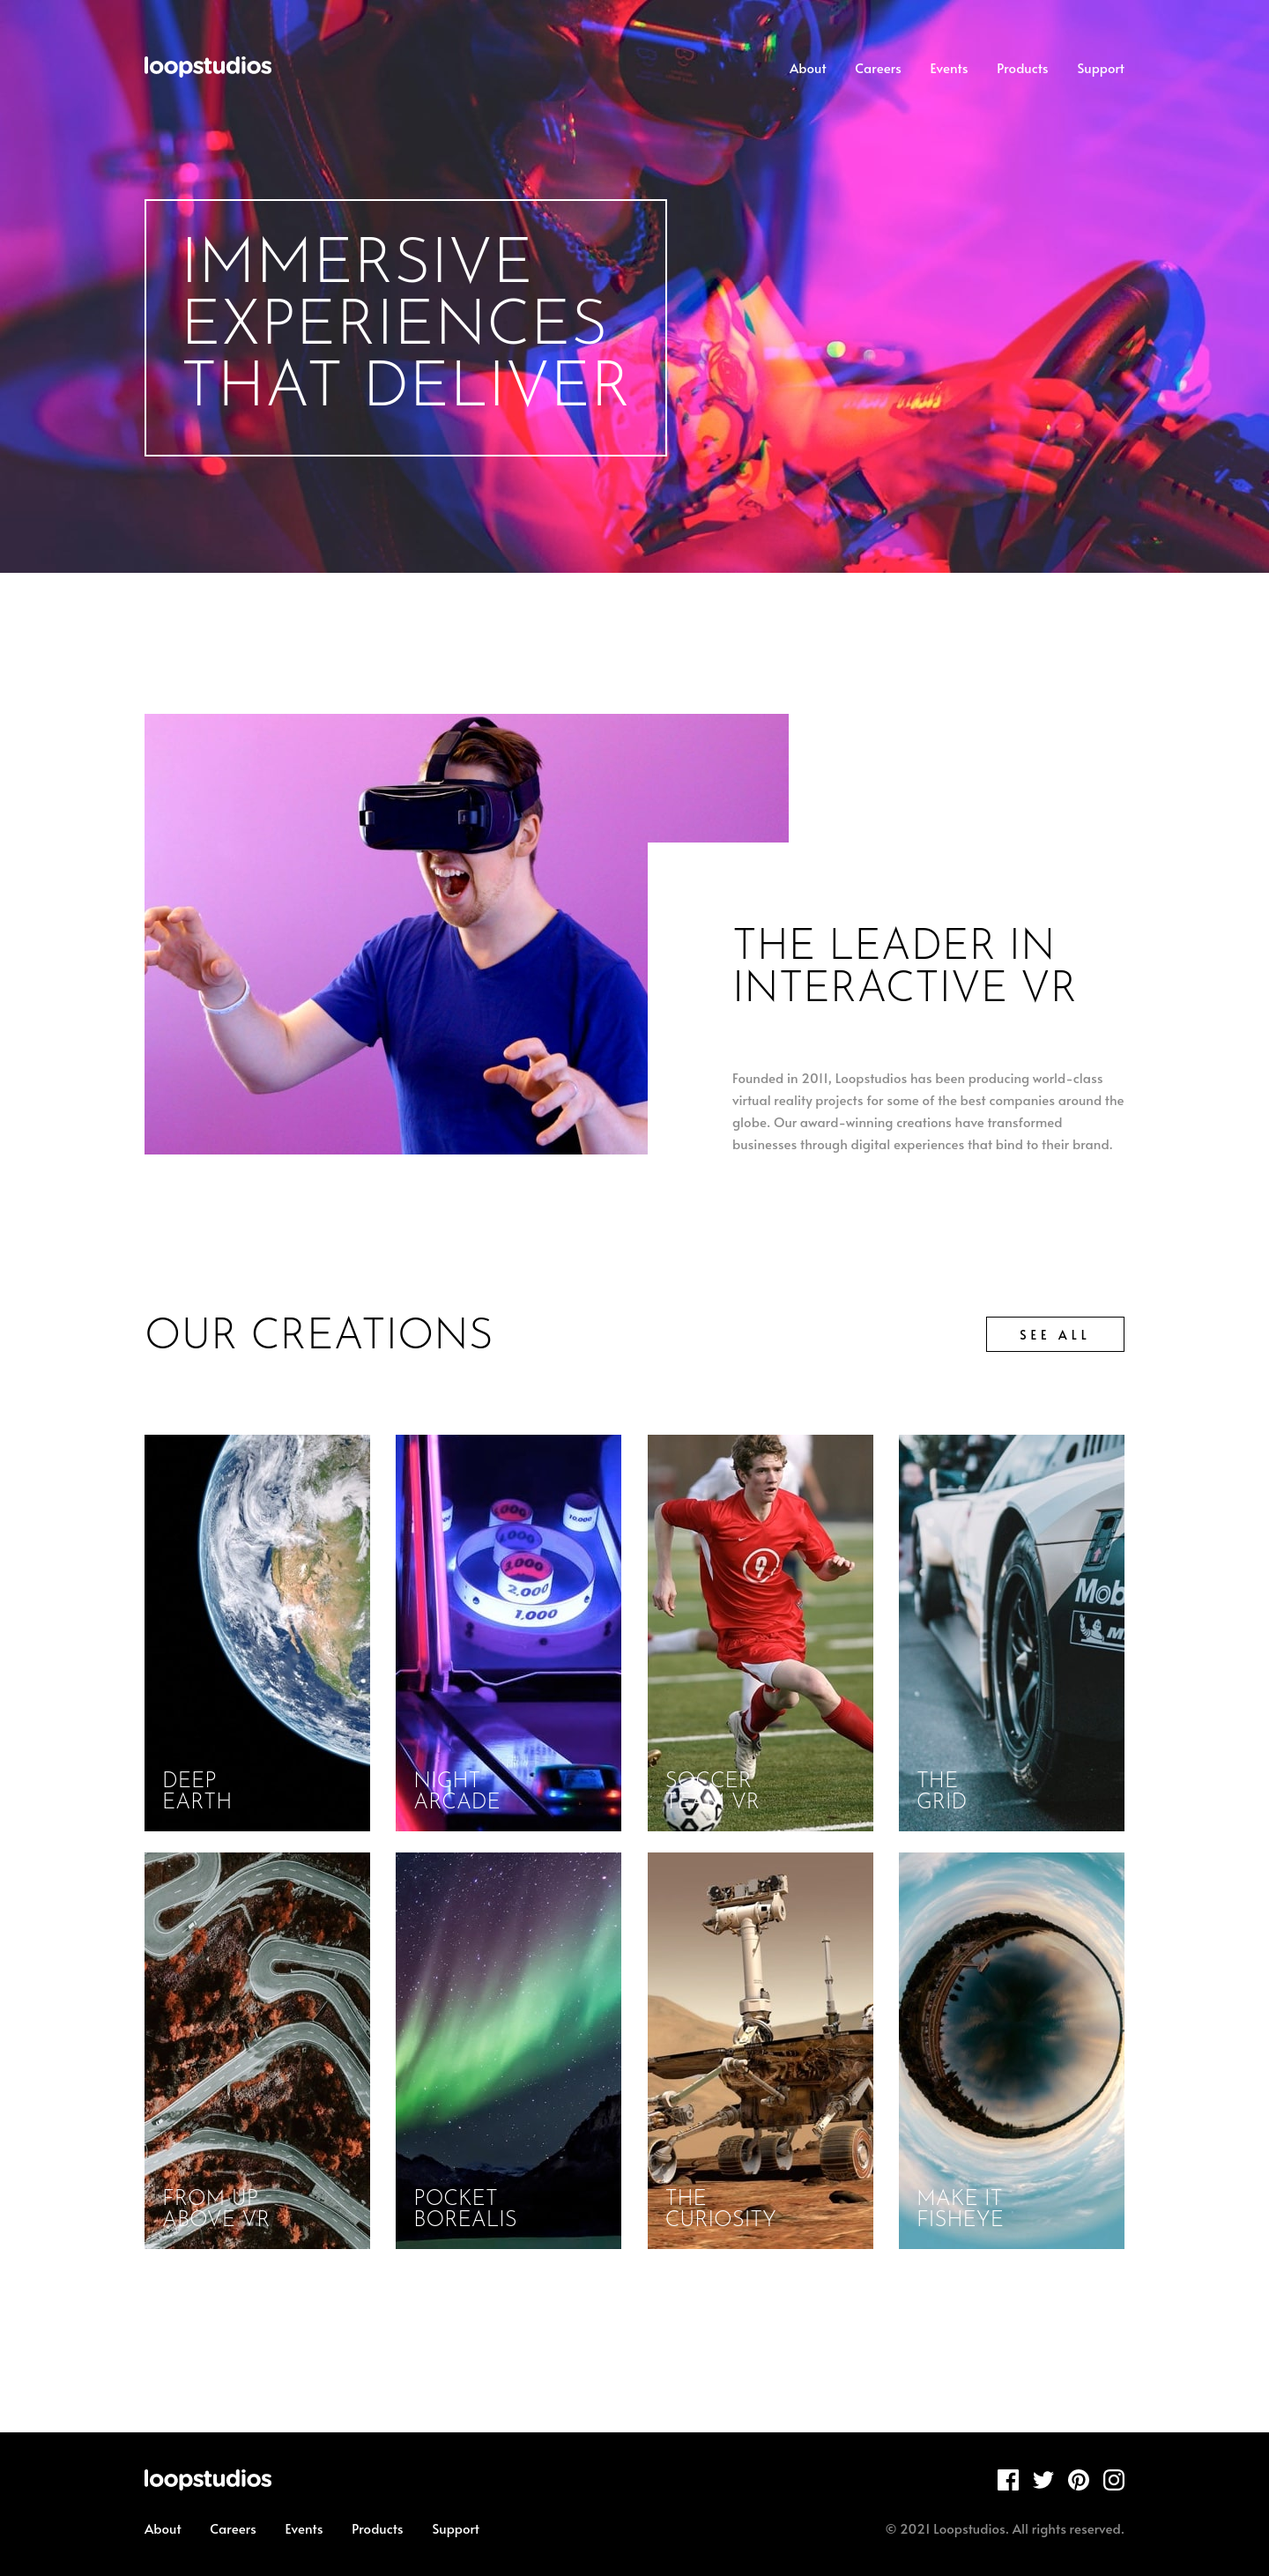
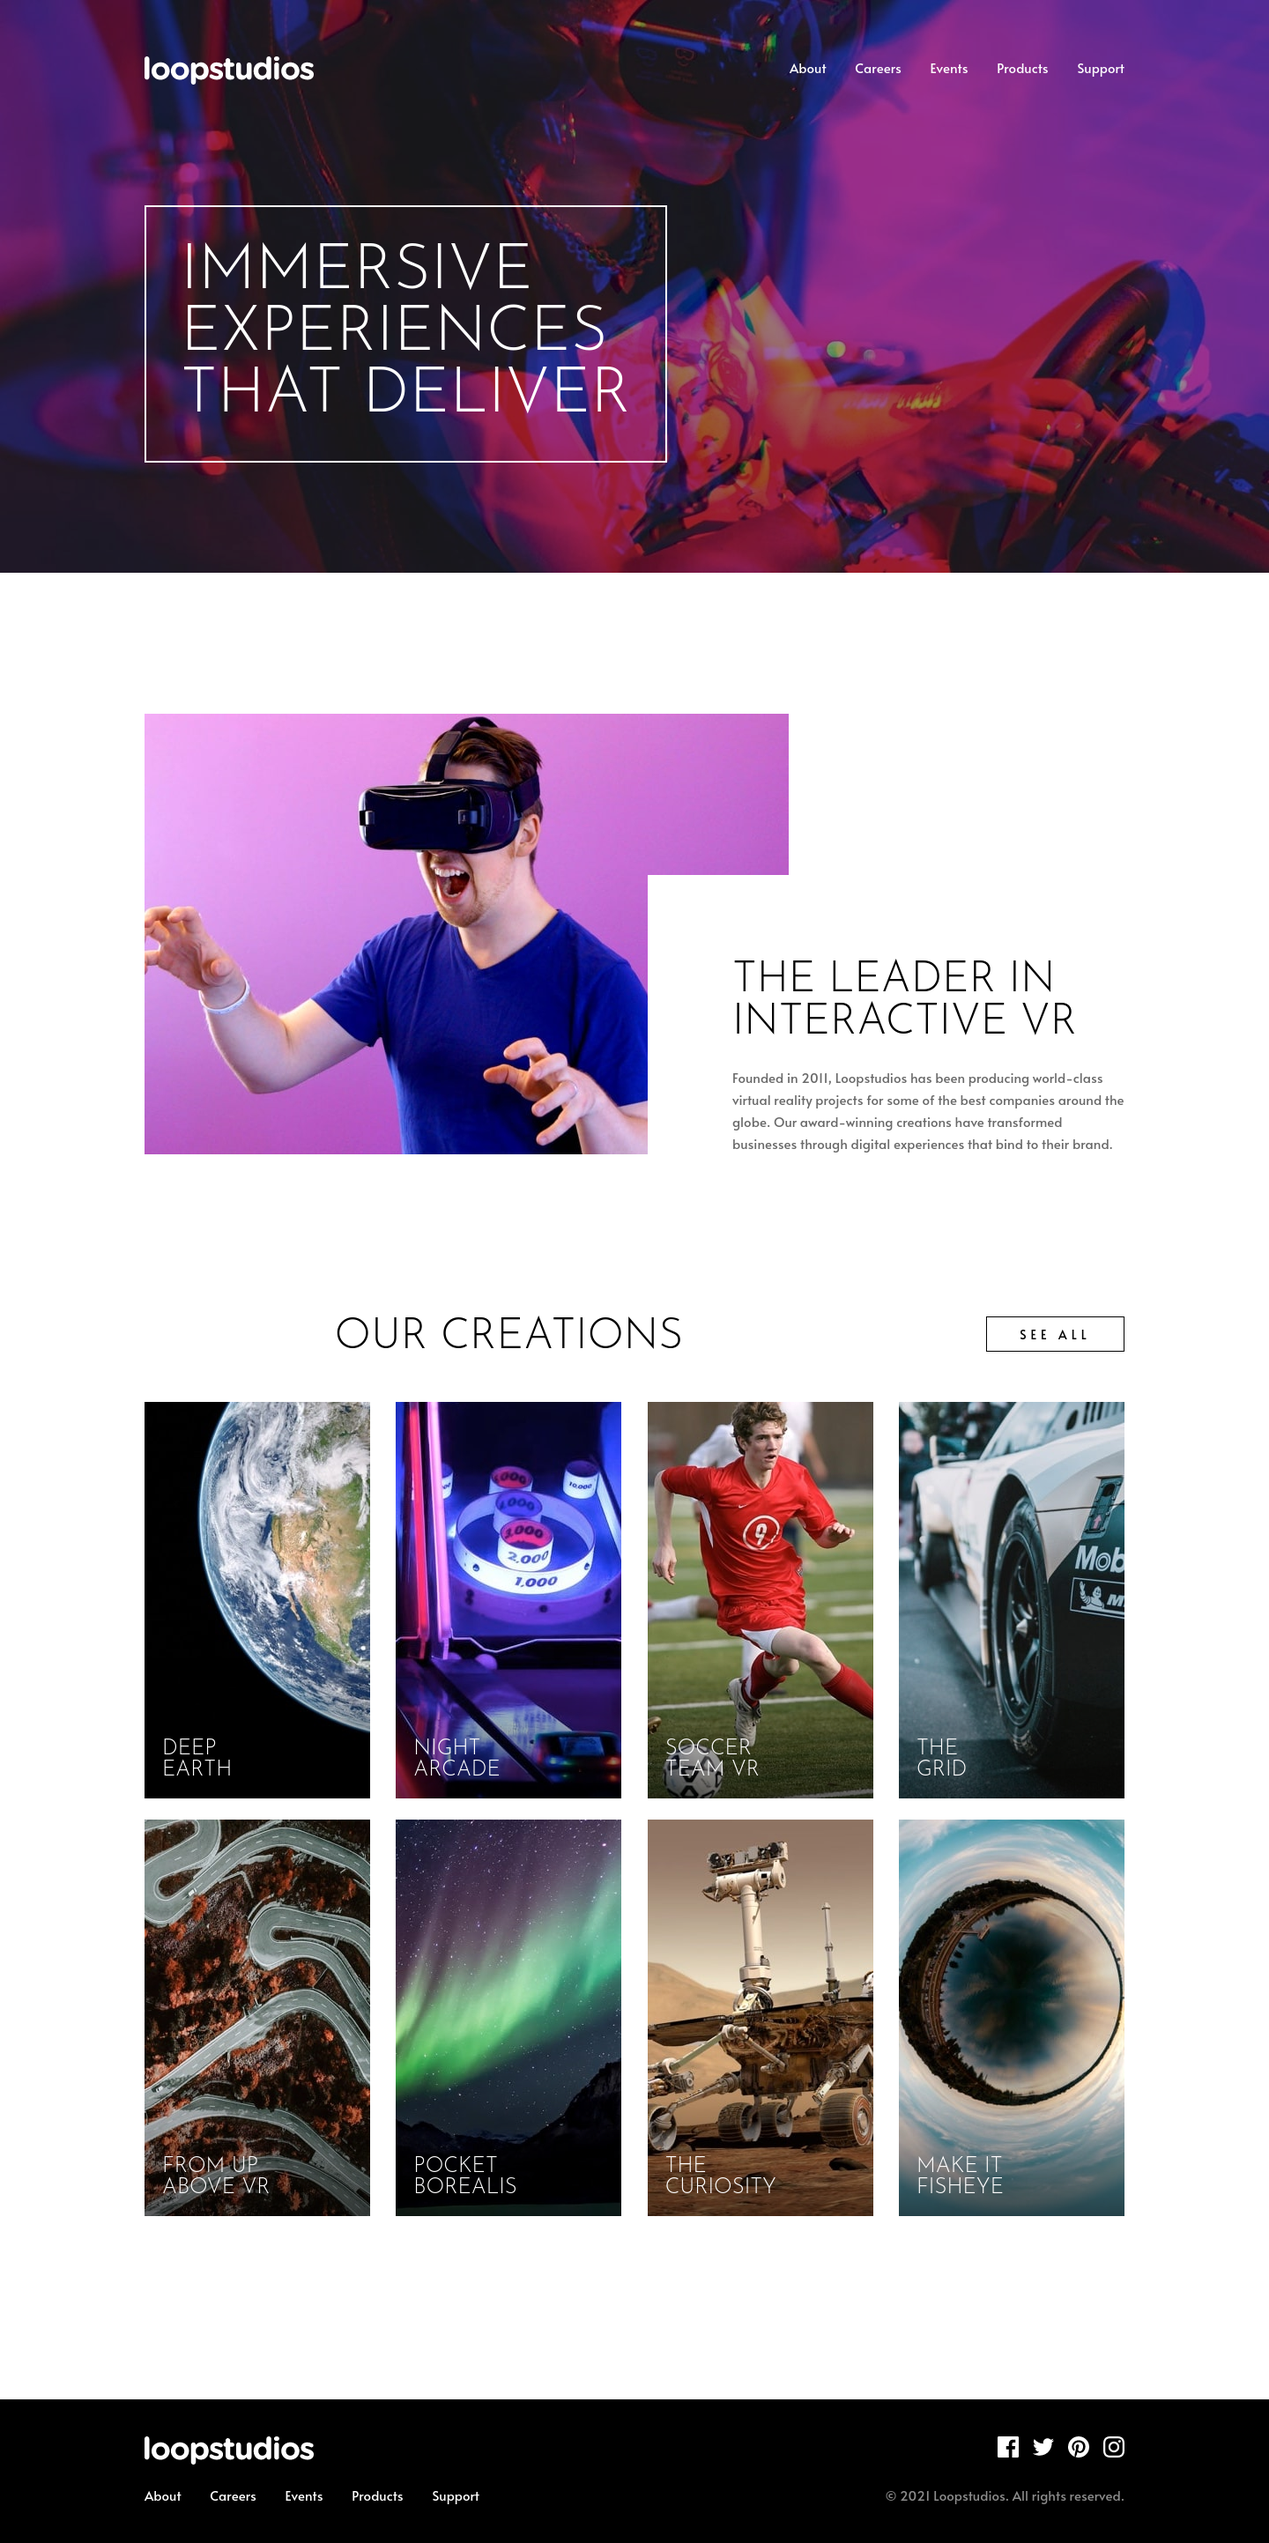
+shading & margin fixes

diff --git a/index.html b/index.html
@@ -16,18 +16,14 @@
   </head>
   <body>
     <header id="header">
+      <div class="header-gradient"></div>
       <input
         type="checkbox"
         name="hamburger-checkbox"
         id="hamburger-checkbox"
       />
       <div class="nav-container">
-        <img
-          src="images/logo.svg"
-          alt="loopstudios logo"
-          height="24"
-          class="logo"
-        />
+        <img src="images/logo.svg" alt="loopstudios logo" class="logo" />
         <label for="hamburger-checkbox" class="hamburger-icon"> </label>
         <nav>
           <ul>
@@ -80,6 +76,7 @@
               class="tile-img"
             />
           </picture>
+          <div class="tile-gradient"></div>
           <h3>Deep<br />earth</h3>
         </div>
         <div class="tile-item">
@@ -94,6 +91,7 @@
               class="tile-img"
             />
           </picture>
+          <div class="tile-gradient"></div>
           <h3>Night<br />arcade</h3>
         </div>
         <div class="tile-item">
@@ -108,6 +106,7 @@
               class="tile-img"
             />
           </picture>
+          <div class="tile-gradient"></div>
           <h3>Soccer<br />team VR</h3>
         </div>
         <div class="tile-item">
@@ -122,6 +121,7 @@
               class="tile-img"
             />
           </picture>
+          <div class="tile-gradient"></div>
           <h3>The<br />grid</h3>
         </div>
         <div class="tile-item">
@@ -136,6 +136,7 @@
               class="tile-img"
             />
           </picture>
+          <div class="tile-gradient"></div>
           <h3>From up<br />above VR</h3>
         </div>
         <div class="tile-item">
@@ -150,6 +151,7 @@
               class="tile-img"
             />
           </picture>
+          <div class="tile-gradient"></div>
           <h3>Pocket<br />borealis</h3>
         </div>
         <div class="tile-item">
@@ -164,6 +166,7 @@
               class="tile-img"
             />
           </picture>
+          <div class="tile-gradient"></div>
           <h3>The<br />curiosity</h3>
         </div>
         <div class="tile-item">
@@ -178,6 +181,7 @@
               alt="fisheye image of the sky"
             />
           </picture>
+          <div class="tile-gradient"></div>
           <h3>Make it<br />fisheye</h3>
         </div>
         <div class="see-all-container">

diff --git a/style.css b/style.css
@@ -63,6 +63,12 @@ header {
   background-repeat: no-repeat;
   background-size: cover;
   min-height: 650px;
+  position: relative;
+  z-index: -2;
+}
+
+.logo {
+  height: 24px;
 }
 
 .nav-container {
@@ -234,6 +240,21 @@ h2 {
   width: 100%;
 }
 
+.tile-gradient {
+  position: absolute;
+  top: 0;
+  left: 0;
+  width: 100%;
+  height: 100%;
+  background: linear-gradient(
+    to right,
+    rgba(0, 0, 0, 0.6),
+    rgba(0, 0, 0, 0),
+    240px,
+    rgba(0, 0, 0, 0)
+  );
+}
+
 h3 {
   font-size: 24px;
   line-height: 24px;
@@ -311,6 +332,21 @@ footer ul {
   .hamburger-icon {
     display: none;
   }
+
+  .logo {
+    height: 32px;
+  }
+
+  .header-gradient {
+    position: absolute;
+    top: 0;
+    left: 0;
+    width: 100%;
+    height: 100%;
+    background-color: rgba(0, 0, 0, 0.4);
+    z-index: -1;
+  }
+
   .nav-container {
     padding: 64px var(--desktop-screen-margin);
   }
@@ -380,13 +416,14 @@ footer ul {
     bottom: 0px;
     padding: 96px 0 0 96px;
     width: 541px;
+    margin-top: 0px;
   }
 
   h2 {
     font-size: 48px;
     line-height: 48px;
     margin: 0;
-    margin-bottom: 62px;
+    margin-bottom: 25px;
   }
 
   .intro-description {
@@ -399,6 +436,16 @@ footer ul {
   .tile-img {
     width: 256px;
     height: 450px;
+  }
+
+  .tile-gradient {
+    background: linear-gradient(
+      to bottom,
+      rgba(0, 0, 0, 0),
+      130px,
+      rgba(0, 0, 0, 0),
+      rgba(0, 0, 0, 0.6)
+    );
   }
 
   .tiles-grid {

diff --git a/README.md b/README.md
@@ -36,7 +36,7 @@ Solution screenshot for mobile (375px screen width)
 
 ### Links
 
-- Live Site URL: todo
+- Live Site URL: [frontend-mentor-landing-page-nine.vercel.app](https://frontend-mentor-landing-page-nine.vercel.app/)
 
 ## My process
 
